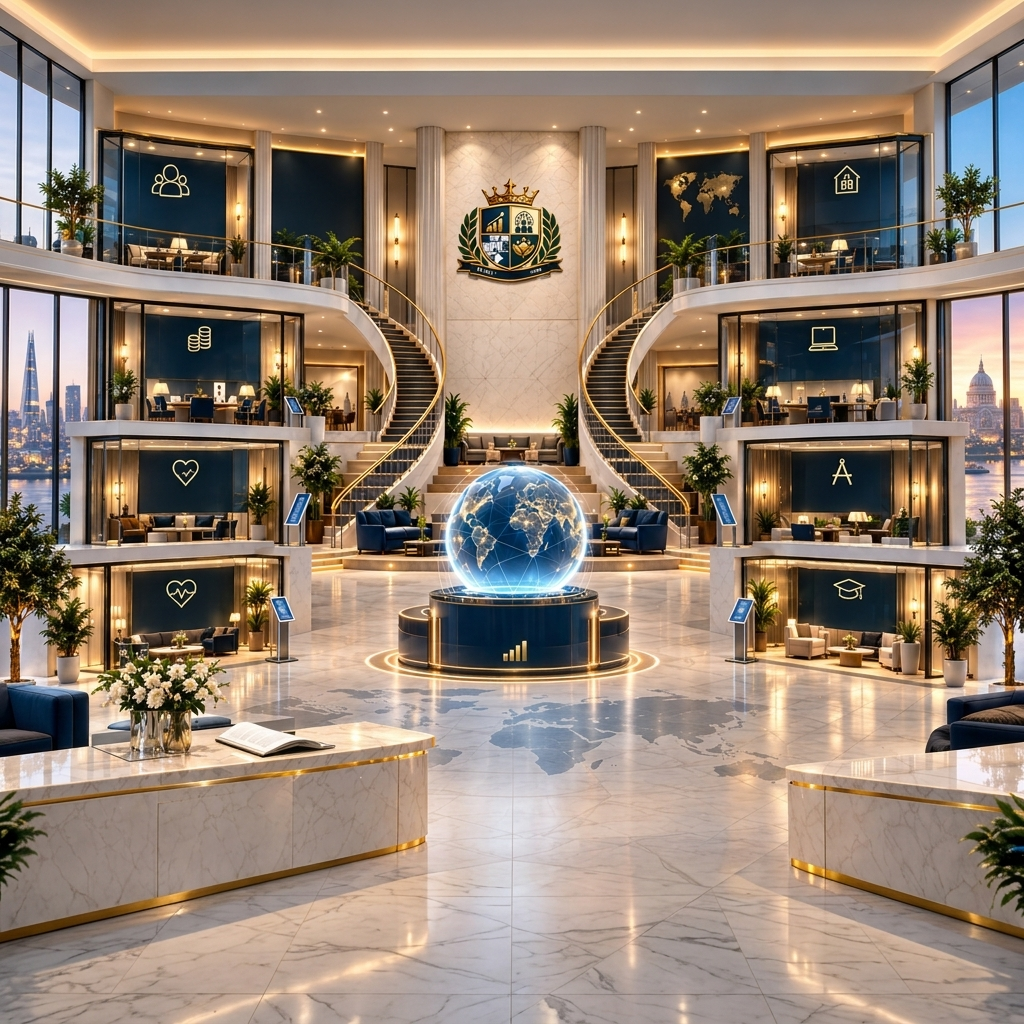
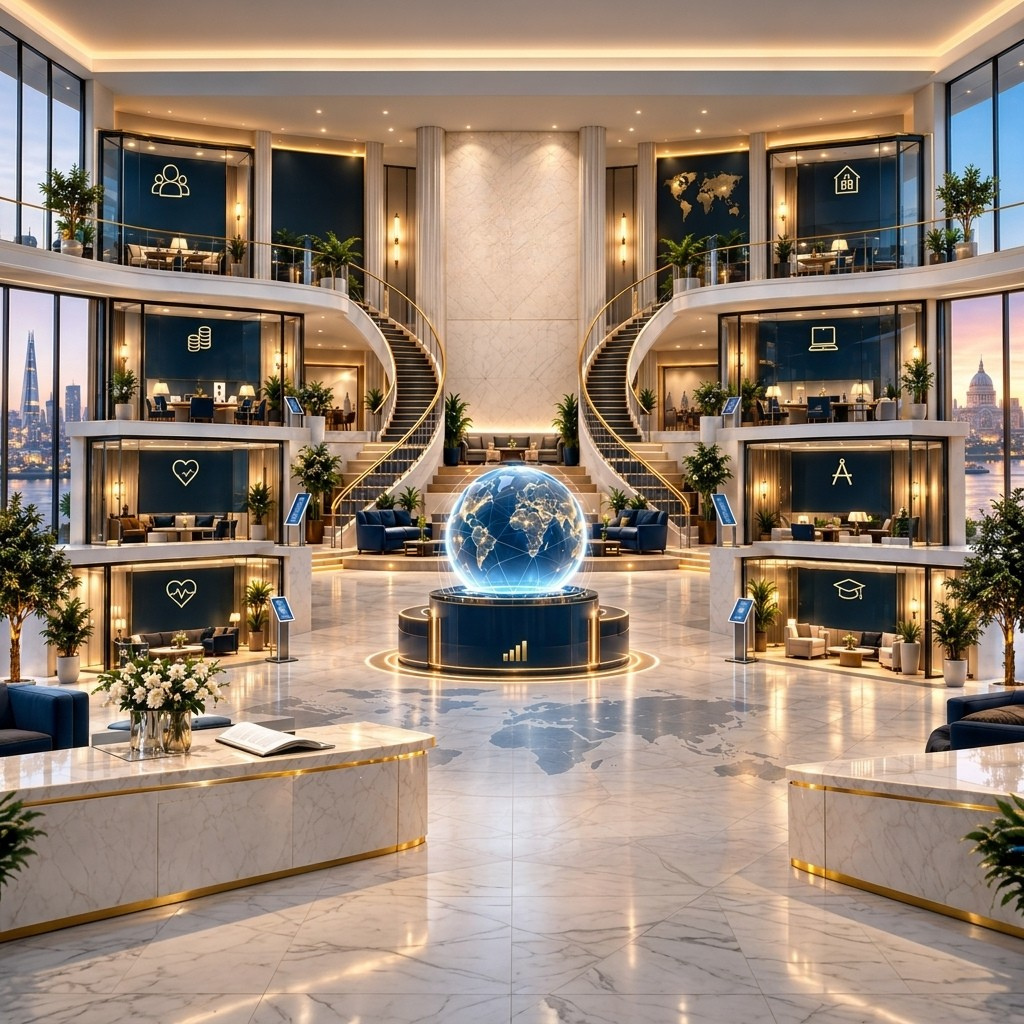
added 3d layer on the lobby

Changed region(s): [[0.4375, 0.1562, 0.5625, 0.2812]]

diff --git a/components/House3DScene.tsx b/components/House3DScene.tsx
@@ -193,6 +193,58 @@ const LOBBY_BOOTH_CONFIGS: { id: string; xPct: number; yPct: number; wPct: numbe
   { id: "mental-health", xPct: 0.34, yPct: 0.01, wPct: 0.085, hPct: 0.075 },
 ];
 
+// 2b. High-Res Crisp 3D Wall Crest Mesh matching exact original PNG colors and proportions
+function WallCrest3DMesh({ position, scale, zoomFactor = 1.0 }: { position: [number, number, number]; scale: [number, number, number]; zoomFactor?: number }) {
+  const logoTexture = useTexture("/sources/Logo - Edited.png");
+  logoTexture.colorSpace = THREE.SRGBColorSpace;
+
+  const meshRef = useRef<THREE.Group>(null);
+  const [hovered, setHovered] = React.useState(false);
+
+  useFrame((_, delta) => {
+    if (meshRef.current) {
+      // Counter-scale zoomFactor so size stays completely fixed during scroll, plus hover scaling
+      const baseCounterScale = 1 / zoomFactor;
+      const targetScale = hovered ? baseCounterScale * 1.05 : baseCounterScale;
+      meshRef.current.scale.x = THREE.MathUtils.lerp(meshRef.current.scale.x, targetScale, delta * 6);
+      meshRef.current.scale.y = THREE.MathUtils.lerp(meshRef.current.scale.y, targetScale, delta * 6);
+    }
+  });
+
+  return (
+    <group
+      ref={meshRef}
+      position={position}
+      scale={scale}
+      onPointerOver={() => {
+        setHovered(true);
+        document.body.style.cursor = "pointer";
+      }}
+      onPointerOut={() => {
+        setHovered(false);
+        document.body.style.cursor = "auto";
+      }}
+      onClick={() => useHouseStore.getState().returnToFacade()}
+    >
+      {/* Crisp PNG Logo Texture Mesh with zero color distortion */}
+      <mesh position={[0, 0, 0]}>
+        <planeGeometry args={[1, 1]} />
+        <meshBasicMaterial
+          map={logoTexture}
+          transparent={true}
+          toneMapped={false}
+          side={THREE.DoubleSide}
+        />
+      </mesh>
+      
+      {/* Subtle Golden Ambient Light Glow on Hover */}
+      {hovered && (
+        <pointLight position={[0, 0, 0.2]} color="#c5a869" intensity={4.0} distance={3.0} />
+      )}
+    </group>
+  );
+}
+
 // 2. High-Resolution Lobby Artwork Texture Plane (`lobby.png`) with Sticky 3D Doors
 function LobbyArtworkPlane({
   selectedRoom,
@@ -331,6 +383,13 @@ function LobbyArtworkPlane({
         <planeGeometry args={[1, 1]} />
         <meshBasicMaterial map={texture} />
       </mesh>
+
+      {/* 3D Crisp Wall Logo Crest Mesh placed at top center wall */}
+      <WallCrest3DMesh
+        position={[0, 0.25 * scaleY, 0.015]}
+        scale={[0.58 * scaleX, 0.58 * scaleX, 1]}
+        zoomFactor={zoomFactor}
+      />
 
       {/* Render 7 Interactive 3D Doors Sticky Glued Directly to the Image Booths */}
       {SERVICE_ROOMS.map((room) => {
